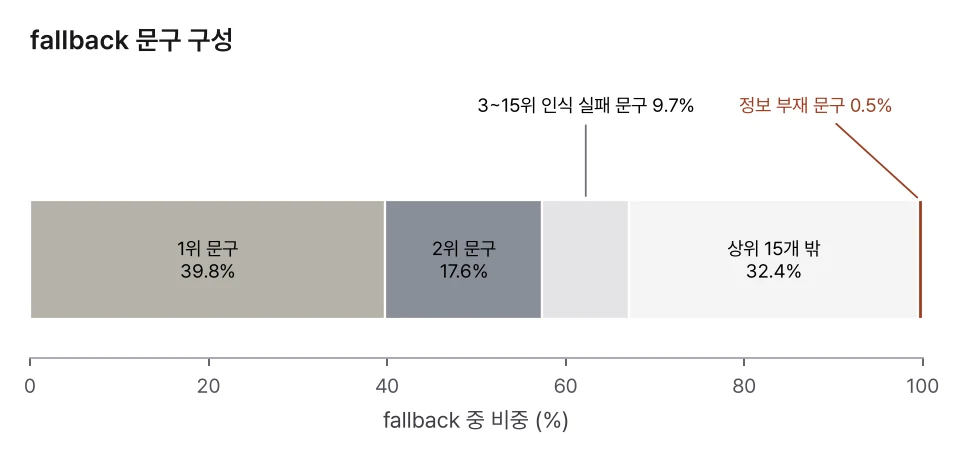
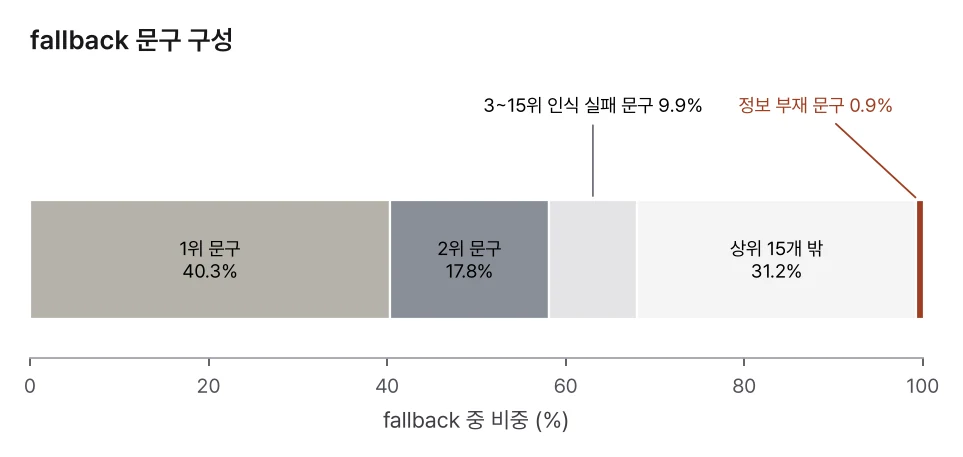
voice: 그림 1~3을 재현 결과 CSV로 그림, 손으로 옮긴 기록값 파일 지움

diff --git a/voice-llm-freshness/scripts/10_figures.py b/voice-llm-freshness/scripts/10_figures.py
@@ -1,9 +1,9 @@
-"""그림 4장. 1~3은 운영 로그 분석 기록(data/record_rates.csv), 4는 가상 로그 결과. 다시 계산하지 않는다."""
+"""그림 4장. 1~2는 04, 3은 05, 4는 06의 결과 CSV를 그린다. 다시 계산하지 않는다."""
 
 import matplotlib.pyplot as plt
 import numpy as np
 import pandas as pd
-from common import DATA, RES, UNMATCHED
+from common import RES, UNMATCHED
 from sitestyle import BLUE, GRAY, LIGHT, MUTED, ORANGE, save, setup
 
 setup()
@@ -11,9 +11,21 @@ setup()
 STATE_KO = {"normal": "정상", "fallback": "fallback", "none": "무응답"}
 STATE_COLOR = {"normal": GRAY, "fallback": ORANGE, "none": LIGHT}
 
-rec = pd.read_csv(DATA / "record_rates.csv")
-
-f1 = rec[rec["figure"] == "fig1"]
+phr = pd.read_csv(RES / "fallback_phrases.csv")
+top15 = phr[phr["rank"] <= 15]
+info_pct = top15.loc[top15["category"] == "정보 부재", "share"].sum() * 100
+f1 = pd.DataFrame(
+    {
+        "item": ["1위 문구", "2위 문구", "3~15위 인식 실패 문구", "상위 15개 밖", "정보 부재 문구"],
+        "value_pct": [
+            phr.loc[phr["rank"] == 1, "share"].iloc[0] * 100,
+            phr.loc[phr["rank"] == 2, "share"].iloc[0] * 100,
+            top15.loc[(top15["rank"] > 2) & (top15["category"] != "정보 부재"), "share"].sum() * 100,
+            100 - top15["share"].sum() * 100,
+            info_pct,
+        ],
+    }
+).round(1)
 fig, ax = plt.subplots(figsize=(7.2, 2.4))
 left = 0.0
 seg_color = {"1위 문구": GRAY, "2위 문구": "#8A8F98", "3~15위 인식 실패 문구": LIGHT, "상위 15개 밖": "#f4f4f5"}
@@ -49,7 +61,8 @@ ax.set_xlabel("fallback 중 비중 (%)")
 ax.set_title("fallback 문구 구성")
 save(fig, "fig1_fallback_phrases")
 
-f2 = rec[rec["figure"] == "fig2"].pivot(index="group", columns="item", values="value_pct")
+f2 = pd.read_csv(RES / "state_by_fresh.csv").set_index("fresh")[["normal", "fallback", "none"]] * 100
+f2.index = f2.index.map({True: "최신성 요구 있음", False: "최신성 요구 없음"})
 f2 = f2.loc[["최신성 요구 있음", "최신성 요구 없음"]]
 fig, ax = plt.subplots(figsize=(7.2, 2.6))
 left = np.zeros(len(f2))
@@ -64,9 +77,9 @@ ax.set_title("최신성 요구 여부별 응답 상태")
 ax.legend(ncol=3, loc="upper center", bbox_to_anchor=(0.5, -0.35))
 save(fig, "fig2_state_by_fresh")
 
-f3 = rec[rec["figure"] == "fig3"].set_index("item").loc[["fallback", "normal", "none"]]
+f3 = pd.read_csv(RES / "retry_by_prev_state.csv").set_index("prev_state").loc[["fallback", "normal", "none"]]
 fig, ax = plt.subplots(figsize=(5.6, 3.4))
-ax.bar([STATE_KO[s] + " 직후" for s in f3.index], f3["value_pct"], color=[ORANGE, GRAY, GRAY], width=0.6)
+ax.bar([STATE_KO[s] + " 직후" for s in f3.index], f3["retry_rate"] * 100, color=[ORANGE, GRAY, GRAY], width=0.6)
 ax.set_ylabel("재시도율 (%)")
 ax.set_title("직전 응답 상태별 재시도율")
 ax.grid(axis="y")

diff --git a/voice-llm-freshness/scripts/01_generate.py b/voice-llm-freshness/scripts/01_generate.py
@@ -1,6 +1,6 @@
 """가상 음성 대화 로그 생성 (에피소드 단위)
 
-- 빈 발화 = 오호출(앞에 사람 없음) + 사람 발화의 STT 누락. 두 비율은 운영 로그 57%에 맞춘 가정
+- 빈 발화 = 오호출(앞에 사람 없음) + 사람 발화의 STT 누락. 두 비율을 합쳐 빈 발화가 절반을 넘게 둔 가정
 - 세션은 기기가 닫음. fallback 뒤엔 대부분 새 세션, 무응답이면 계속 듣는 구조
 - truth_* 4열은 07, 08 대조 전용
 """
@@ -187,7 +187,7 @@ RESP_P = {
 P_NOTICE = {"날씨/대기질": 0.10, "시세/지표": 0.08, "스포츠": 0.12, "뉴스/시사": 0.05, "트렌드/화제": 0.02}
 
 rec = FALLBACK_PHRASES["인식/이해 실패"]
-# 운영 로그의 상위 두 문구 비중(39.8%, 17.6%)에 맞춘 가중치. 나머지는 긴 꼬리
+# 상위 두 문구에 쏠린 가중치. 나머지는 긴 꼬리
 REC_W = np.array(
     [39.8, 17.6, 1.2, 1.1, 1.0, 0.9, 0.85, 0.8, 0.75, 0.7, 0.65, 0.6, 0.55, 0.52] + [0.309] * FALLBACK_TAIL_N
 )

diff --git a/voice-llm-freshness/README.md b/voice-llm-freshness/README.md
@@ -2,7 +2,7 @@
 
 ["다시 말씀해 주시겠어요", 그리고 아무도 다시 말하지 않았다](https://analysis-archive.vercel.app/analyses/voice-llm-freshness) 재현 코드.
 
-음성 비서 운영 로그에서 LLM의 낡은 답(knowledge cutoff 이후 바뀐 정보를 옛 정보로 답한 것)은 정상 응답으로 남아 직접 셀 수 없다. 원본 분석은 발화 쪽 신호(최신성 표현, 불만, 재시도)로 우회해 셌는데, 그 proxy가 실제로 몇 건을 가리키는지는 알 수 없었다. 여기서는 낡은 답에 `truth_stale`을 붙인 가상 로그를 만들어 proxy의 recall과 precision을 잰다. 실제 로그는 없고, 그림 1~3만 글에 적힌 운영 로그 비율(`data/record_rates.csv`, 손으로 옮김)을 그린 것.
+음성 비서 로그에서 LLM의 낡은 답(knowledge cutoff 이후 바뀐 정보를 옛 정보로 답한 것)은 정상 응답으로 남아 직접 셀 수 없다. 원본 분석은 발화 쪽 신호(최신성 표현, 불만, 재시도)로 우회해 셌는데, 그 proxy가 실제로 몇 건을 가리키는지는 알 수 없었다. 여기서는 낡은 답에 `truth_stale`을 붙인 가상 로그를 만들어 proxy의 recall과 precision을 잰다.
 
 ## 실행
 
@@ -27,7 +27,7 @@ python verify.py
 | 07 | `truth_stale` 대비 proxy recall, precision | `oracle_compare.csv`, `coverage_by_truth_topic.csv` |
 | 08 | 오호출 규칙 하한과 상한, 분모를 바꾼 비율 | `misfire_bounds.csv`, `rates_by_denominator.csv` |
 | 09 | 미매칭 발화 n-gram | `uncovered_ngram.csv` |
-| 10 | 그림 4장. 1~3은 `record_rates.csv`, 4는 `priority_all.csv` | `outputs/figures/site/` |
+| 10 | 그림 4장. 1~2는 04, 3은 05, 4는 06의 결과 | `outputs/figures/site/` |
 
 사전(주제 키워드, 제외 규칙, fallback 문구, 의도 규칙)과 상수는 전부 `common.py`. 02~06, 09는 `truth_` 컬럼을 읽지 않고 07, 08만 대조에 쓴다. `verify.py`가 그 순서와 02의 짝짓기(루프로 다시 계산, 제어 코드가 끼었거나 지연 응답이 있는 세션 위주)를 확인.
 
@@ -43,17 +43,17 @@ python verify.py
 
 ## 생성기에 넣은 구조
 
-- 오호출은 유저 발화의 40% 안팎(생성 로그 실측 39.6%. 01의 파라미터 0.35는 에피소드 단위라 발화 단위와 다름), 그중 78%가 빈 발화이고 나머지는 대화 파편과 TV 음성. 사람 발화는 확률 0.48로 STT가 비움(이동형 기기라 거리, 주행 소음 가정. 재시도 턴은 원문을 다시 뽑아서 생성 로그 실측은 41.8%). 둘을 합쳐 운영 로그의 빈 발화 57%를 채움
+- 오호출은 유저 발화의 40% 안팎(생성 로그 실측 39.6%. 01의 파라미터 0.35는 에피소드 단위라 발화 단위와 다름), 그중 78%가 빈 발화이고 나머지는 대화 파편과 TV 음성. 사람 발화는 확률 0.48로 STT가 비움(이동형 기기라 거리, 주행 소음 가정. 재시도 턴은 원문을 다시 뽑아서 생성 로그 실측은 41.8%). 둘을 합쳐 빈 발화가 절반을 넘음
 - 사람도 파편을 말함. "아니", "이거 말고"는 사람이 기기에 한 말이고 의도 규칙에 안 걸림
-- fallback 문구는 인식 실패 계열 14개 + 긴 꼬리 100개. 상위 두 문구 가중치는 운영 로그 비중(39.8%, 17.6%)에 맞춤, 생성 결과는 40.3%, 17.8% (`fallback_phrases.csv`). 정보 부재 문구는 정보 질문이 fallback을 받을 때만 나옴
+- fallback 문구는 인식 실패 계열 14개 + 긴 꼬리 100개. 상위 두 문구에 가중치를 몰았고, 생성 결과는 40.3%, 17.8% (`fallback_phrases.csv`). 정보 부재 문구는 정보 질문이 fallback을 받을 때만 나옴
 - 낡은 답: 최신 정보가 필요한 질문이 정상 응답을 받았고, 모델 cutoff(2025-01-01, 모델 카드의 2025년 1월)부터 발화 시각까지가 주제별 유효 기간(3시간~720시간, lognormal 흔들림)을 넘으면 `truth_stale=1`. 시각과 날짜 질문은 기기 시계로 답한다고 보고 제외
 - 세션은 기기가 닫음. fallback 뒤 재시도는 97%가 새 세션, 무응답 뒤는 85%가 같은 세션
 - 주제 키워드에 2글자 키워드와 부분 문자열 오탐(경기도, 사회복지사, 수영하고)을 넣음. 날씨 질문 대부분은 키워드 없이 들어옴("오늘 비 와")
 - 따라와 명령은 2026-03-02 출시, 의도 규칙에 없음
 
-생성기 가중치는 운영 로그의 주변 분포(빈 발화, 매칭 비율, fallback 문구 쏠림, 재시도율 순서)가 나올 때까지 손으로 조정한 값. 오호출 40%와 STT 누락 확률 0.48은 그 결과이고 추정치가 아님.
+생성기 가중치는 목표한 주변 분포(빈 발화, 매칭 비율, fallback 문구 쏠림, 재시도율 순서)가 나올 때까지 손으로 조정한 값. 오호출 40%와 STT 누락 확률 0.48은 그 결과이고 추정치가 아님.
 
 ## 알려진 문제
 
 - cutoff가 로그 시작보다 9개월 앞이라 최신 정보가 필요한 정상 응답은 거의 다 낡은 답. 유효 기간 차이가 `truth_stale`에 거의 안 드러남 (`coverage_by_truth_topic.csv` stale_rate 0.67~0.76)
-- 세션을 넘어간 재시도는 기기 식별자가 없어 못 셈. sweep은 같은 세션 안에서 창 길이와 유사도 기준만 바꿈. 무응답 직후 재시도율 7.30%는 운영 로그보다 높음 (무응답이면 기기가 계속 듣는다는 가정이 강함)
+- 세션을 넘어간 재시도는 기기 식별자가 없어 못 셈. sweep은 같은 세션 안에서 창 길이와 유사도 기준만 바꿈. 무응답 직후 재시도율 7.30%는 무응답이면 기기가 계속 듣는다는 가정이 강해서 높게 나옴
